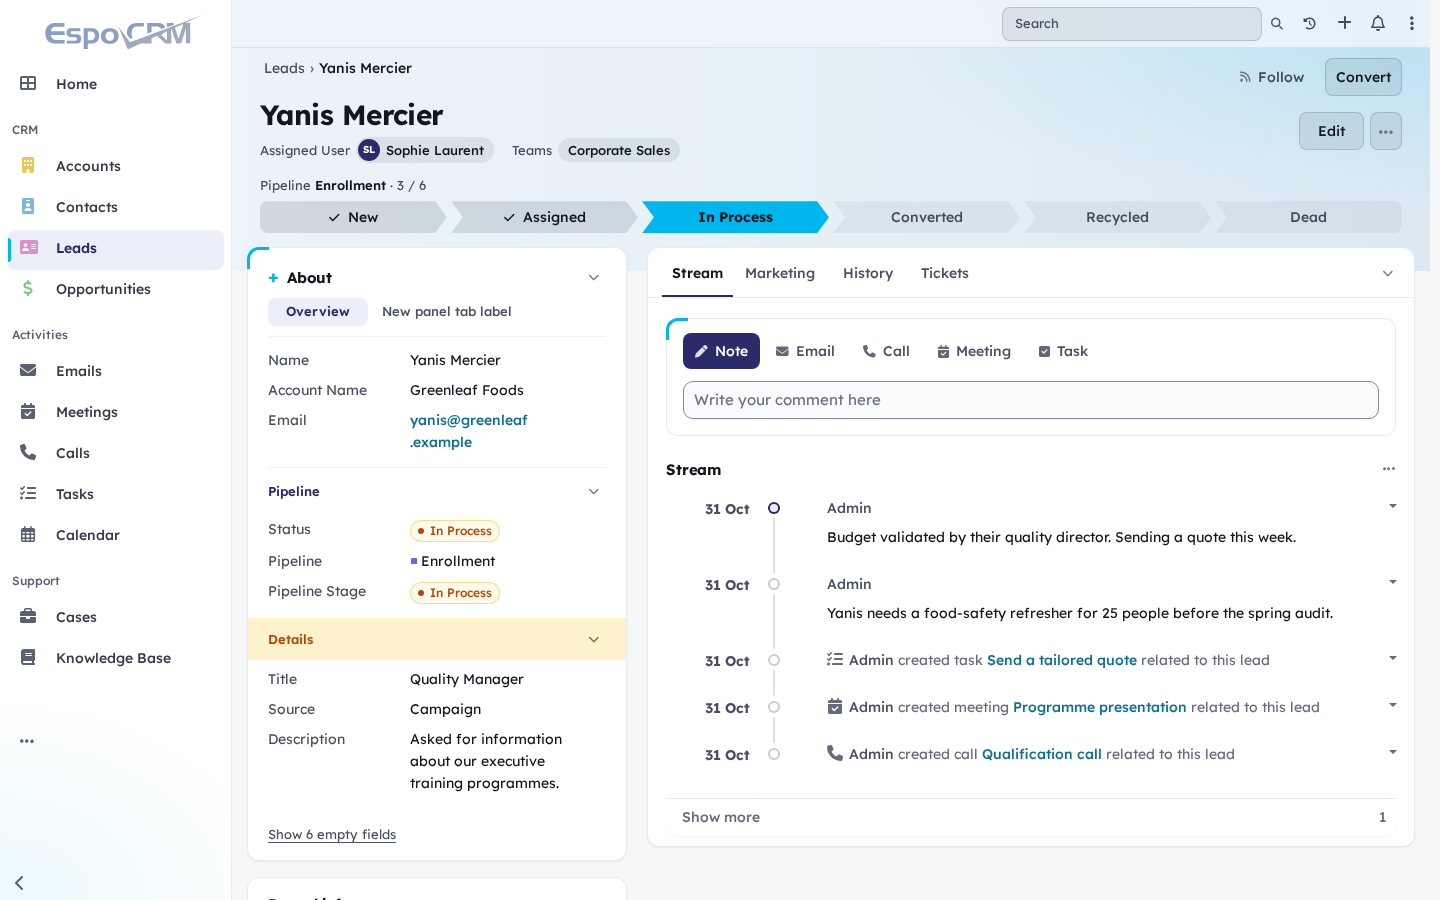
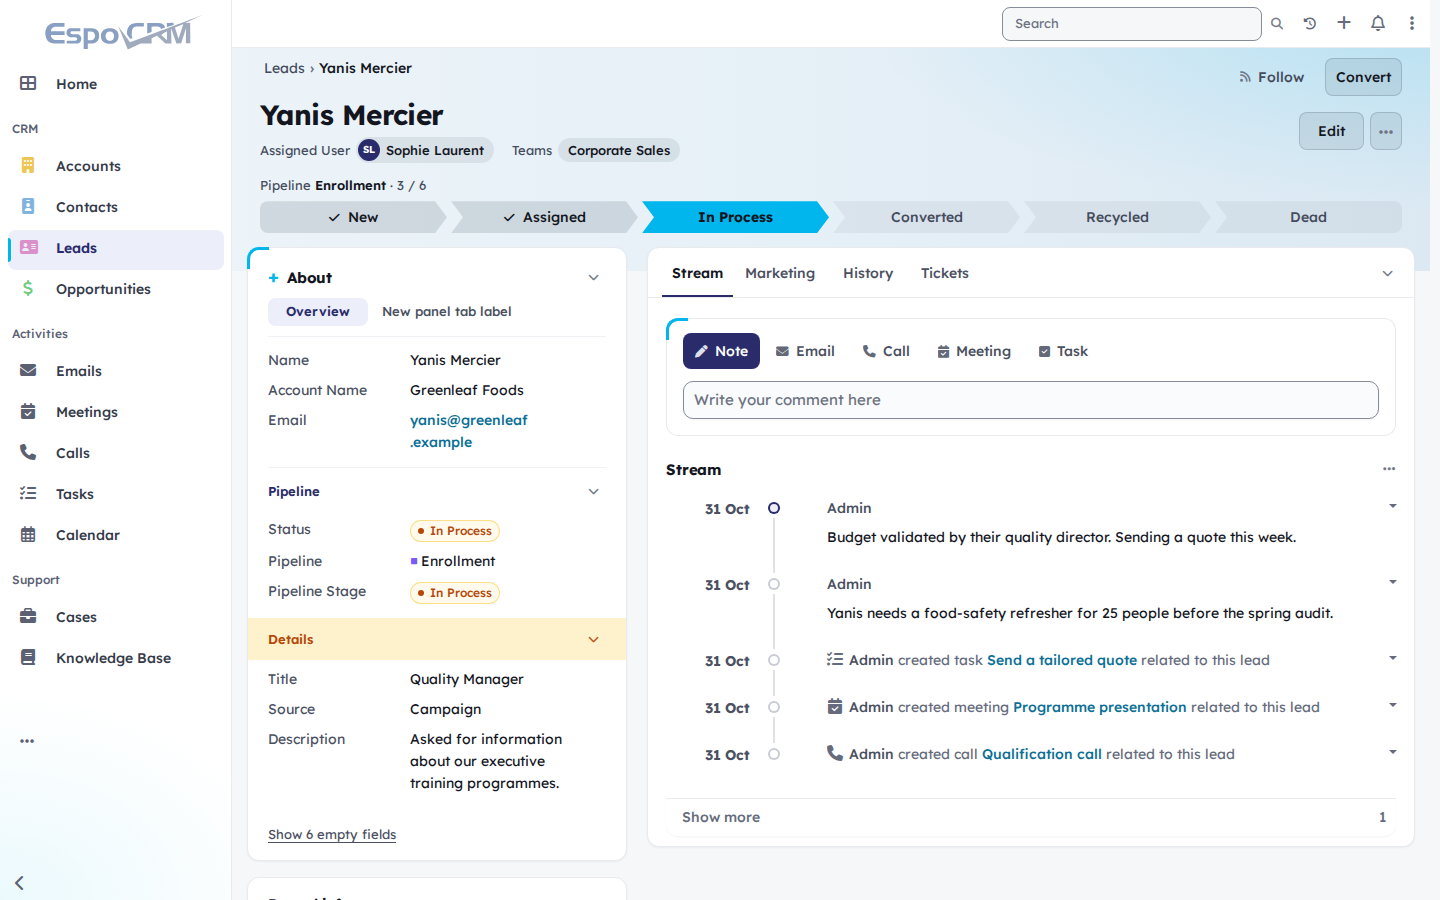
feat: marked table columns and a white top bar
- Table headers are tinted and uppercase, with vertical lines and a cyan tint
  on hover. Row hover is clearer. This applies to lists and to record tables.
- The top bar is white on every page, with one set of rules instead of a
  separate look on records. The search field has a 3:1 border.
- Top menu mode: the active tab was white on a light background, now readable.
- README: new screenshots.

diff --git a/src/files/client/custom/modules/lucid-theme/css/lucid-data.css b/src/files/client/custom/modules/lucid-theme/css/lucid-data.css
@@ -1,5 +1,5 @@
 /**
- * Data: lists as cards, quiet column headers, status badges.
+ * Data: lists as cards, marked column headers, status badges.
  */
 
 /* ===== Main list: a card ===== */
@@ -44,14 +44,29 @@
 }
 
 .list > table > thead > tr > th {
-    background-color: var(--lucid-surface-sunken);
-    border-bottom: 1px solid var(--lucid-border);
-    color: var(--lucid-text-muted);
-    font-size: var(--13px);
-    font-weight: 500;
-    letter-spacing: 0;
-    text-transform: none;
+    background-color: var(--lucid-table-head-bg);
+    border-right: 1px solid var(--lucid-table-head-line);
+    border-bottom: 1px solid var(--lucid-table-head-line);
+    color: var(--lucid-text-secondary);
+    font-size: var(--12px);
+    font-weight: 600;
+    letter-spacing: 0.03em;
+    text-transform: uppercase;
     vertical-align: middle;
+    transition: background-color var(--lucid-fast) ease;
+}
+
+.list > table > thead > tr > th:last-child {
+    border-right: 0;
+}
+
+.list > table > thead > tr > th:hover {
+    background-color: var(--lucid-table-head-hover);
+}
+
+.list > table > thead > tr > th:not(:first-child),
+.list > table > tbody > tr > td:not(:first-child) {
+    padding-left: var(--14px);
 }
 
 .list > table > thead > tr > th a.sort {
@@ -80,7 +95,7 @@
 }
 
 .list > table > tbody > tr:hover > td {
-    background-color: var(--lucid-n-25);
+    background-color: var(--lucid-table-row-hover);
 }
 
 .list > table > tbody > tr.active > td,

diff --git a/src/files/client/custom/modules/lucid-theme/css/lucid-detail.css b/src/files/client/custom/modules/lucid-theme/css/lucid-detail.css
@@ -34,37 +34,6 @@ body.lucid-band-page {
     padding-bottom: 0;
 }
 
-/* Top bar laid over the band */
-body:has(.lucid-record) #navbar .navbar-right {
-    background: var(--lucid-band-topbar);
-    border-bottom-color: var(--lucid-band-divider);
-}
-
-body:has(.lucid-record) #navbar .navbar-right > li > a {
-    color: var(--lucid-band-muted);
-}
-
-body:has(.lucid-record) #navbar .navbar-right > li > a:hover,
-body:has(.lucid-record) #navbar .navbar-right > li.open > a {
-    background-color: var(--lucid-band-fill-2);
-    color: var(--lucid-band-text);
-}
-
-body:has(.lucid-record) #navbar .navbar-right input.global-search-input {
-    background: var(--lucid-band-fill-2);
-    border-color: var(--lucid-band-line);
-    color: var(--lucid-band-text);
-    box-shadow: none;
-}
-
-body:has(.lucid-record) #navbar .navbar-right input.global-search-input::placeholder {
-    color: var(--lucid-band-muted);
-}
-
-body:has(.lucid-record) #navbar .navbar-right .global-search-container a.global-search-button {
-    color: var(--lucid-band-muted);
-}
-
 #main:has(> .record > .lucid-record) > .page-header .header-title {
     font-size: var(--14px);
     font-weight: 500;

diff --git a/src/files/client/custom/modules/lucid-theme/css/lucid-shell.css b/src/files/client/custom/modules/lucid-theme/css/lucid-shell.css
@@ -166,8 +166,6 @@ body[data-navbar="side"] #navbar a.minimizer:hover {
 body[data-navbar="side"] #navbar .navbar-right {
     align-items: center;
     border-bottom: 1px solid var(--lucid-border);
-    -webkit-backdrop-filter: saturate(1.4) blur(10px);
-    backdrop-filter: saturate(1.4) blur(10px);
 }
 
 body[data-navbar="side"] #navbar .navbar-right > li {
@@ -199,16 +197,13 @@ body[data-navbar="side"] #navbar .navbar-right input.global-search-input {
     max-height: var(--34px);
     width: var(--300px);
     padding-left: var(--12px);
-    background-color: var(--lucid-n-0);
-    border: 1px solid var(--lucid-border-strong);
+    background-color: var(--lucid-n-50);
+    border: 1px solid var(--lucid-border-input);
     border-radius: var(--lucid-radius) !important;
-    box-shadow: var(--lucid-shadow-xs);
+    box-shadow: none;
     font-size: var(--13px);
 }
 
-body[data-navbar="side"] #navbar .navbar-right input.global-search-input:hover {
-    border-color: var(--lucid-n-300);
-}
 
 body[data-navbar="side"] #navbar .navbar-right input.global-search-input:focus {
     border-color: var(--lucid-brand-ring);

diff --git a/src/files/client/custom/modules/lucid-theme/css/lucid-espo-vars.css b/src/files/client/custom/modules/lucid-theme/css/lucid-espo-vars.css
@@ -158,7 +158,7 @@
     /* Side menu (inverse navbar) and top bar (navbar) */
     --navbar-border-width: var(--1px);
     --navbar-box-shadow: none;
-    --navbar-bg: rgba(246, 247, 249, 0.86);
+    --navbar-bg: var(--lucid-surface);
     --navbar-link-color: var(--lucid-n-500);
     --navbar-link-hover-color: var(--lucid-text);
     --navbar-link-hover-bg: var(--lucid-hover);
@@ -168,11 +168,11 @@
     --navbar-inverse-border: var(--lucid-sidebar-line);
     --navbar-inverse-color: var(--lucid-sidebar-muted);
     --navbar-inverse-link-color: var(--lucid-sidebar-text);
-    --navbar-inverse-link-hover-color: #ffffff;
+    --navbar-inverse-link-hover-color: var(--lucid-sidebar-text);
     --navbar-inverse-link-hover-bg: var(--lucid-sidebar-hover);
     --navbar-inverse-link-active-bg: var(--lucid-sidebar-active);
     --navbar-inverse-link-icon-color: var(--lucid-sidebar-muted);
-    --navbar-inverse-link-icon-hover-color: #ffffff;
+    --navbar-inverse-link-icon-hover-color: var(--lucid-sidebar-text);
 
     /* Dropdown menus */
     --dropdown-bg: var(--lucid-surface);

diff --git a/src/files/client/custom/modules/lucid-theme/css/lucid-tokens.css b/src/files/client/custom/modules/lucid-theme/css/lucid-tokens.css
@@ -95,9 +95,7 @@
     --lucid-band-line: rgba(10, 25, 43, 0.16);
     --lucid-band-gradient: linear-gradient(90deg, #eef5f9 0%, #e6f0f7 55%, #dce9f3 100%);
     --lucid-band-glow: radial-gradient(60rem 22rem at 100% 0%, rgba(0, 182, 237, 0.18), transparent 60%);
-    --lucid-band-topbar: rgba(238, 245, 249, 0.85);
     --lucid-band-overlap: var(--24px);
-    --lucid-band-divider: rgba(10, 25, 43, 0.08);
     --lucid-band-fill-1: rgba(10, 25, 43, 0.05);
     --lucid-band-fill-2: rgba(10, 25, 43, 0.08);
     --lucid-band-fill-3: rgba(10, 25, 43, 0.12);
@@ -110,6 +108,12 @@
     --lucid-band-primary-bg: var(--lucid-brand);
     --lucid-band-primary-hover: var(--lucid-brand-hover);
     --lucid-band-primary-text: #ffffff;
+
+    /* Tables: tinted column headers with vertical lines, cyan on hover */
+    --lucid-table-head-bg: #eef1f5;
+    --lucid-table-head-line: #d5dae3;
+    --lucid-table-head-hover: #e0f4fb;
+    --lucid-table-row-hover: #f1f4f8;
 
     /* Side menu: white, with a discreet cyan glow at the bottom */
     --lucid-sidebar-bg: #ffffff;

diff --git a/README.md b/README.md
@@ -41,7 +41,7 @@ another one in **Preferences**.
 | ![Contact record](docs/screenshots/record-contact.png) | ![Account record](docs/screenshots/record-account.png) |
 | Contact: About card, Record info card, quick actions and stream | Account: layout panels on the left, relationship tabs on the right |
 | ![Opportunity list](docs/screenshots/list-opportunities.png) | ![Create call side panel](docs/screenshots/create-call.png) |
-| List as a card, coloured record links, stage badges | Native EspoCRM side panel, detached from the page |
+| List as a card, marked column headers, coloured record links, stage badges | Native EspoCRM side panel, detached from the page |
 
 All data in the screenshots is fictitious.
 
@@ -70,8 +70,10 @@ All data in the screenshots is fictitious.
 - **Empty fields hidden** behind a "Show N empty fields" link, all shown while editing.
 - **Readability.** One typeface, Lexend, for text and titles; labels as large as values; record
   links coloured so that what is clickable stands out; comfortable form fields.
-- **Light palette.** White sidebar, ice-blue record band, cards with a cyan corner mark. Colours
-  are CSS tokens (`--lucid-band-*`, `--lucid-sidebar-*`), easy to retune.
+- **Light palette.** White sidebar and top bar, ice-blue record band, cards with a cyan corner mark.
+  Colours are CSS tokens (`--lucid-band-*`, `--lucid-sidebar-*`, `--lucid-table-*`), easy to retune.
+- **Marked table columns.** Tinted uppercase headers with vertical lines, a cyan tint when hovering a
+  column, and a clearer row hover, in lists and in the tables of a record.
 - **Speaks every EspoCRM language.** Labels come from EspoCRM's own translations; only the
   empty-fields link and the Record info title are the theme's own, translated into every language
   EspoCRM ships.
